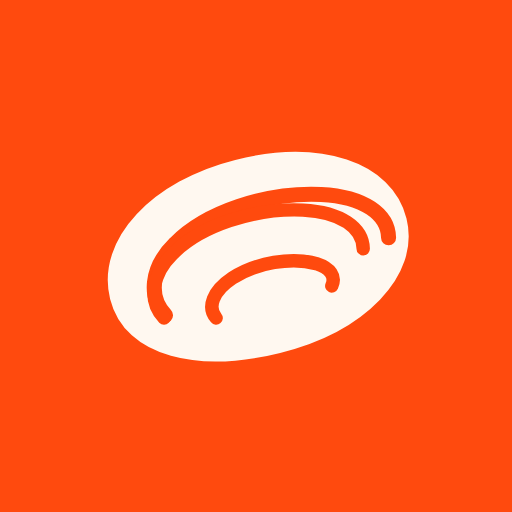
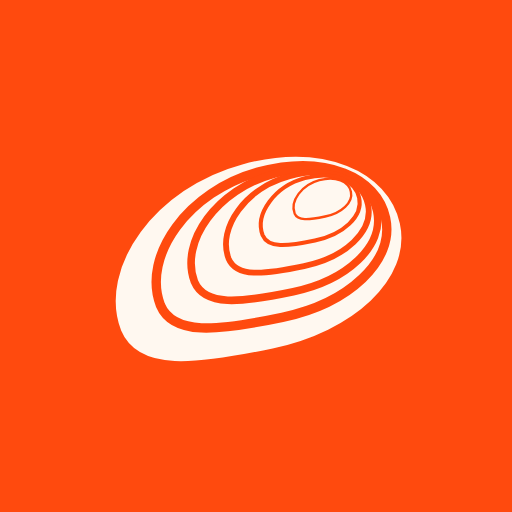
design: one oyster, and it is the wordmark's
The mark in the logo and the mark the application draws were two different
oysters, which the person looking at both every day noticed and said so. The
wordmark carries a proper shell — concentric growth rings running the whole way
round, converging where it grew from. The drawn one was a blob with two short
scratches near the top.

The wordmark's is the better drawing, so the drawn one now follows it.

**Why five rings work now and did not before.** The old construction scaled a
short *arc* about the hinge, so five of them bunched into the narrow end and
stopped reading as anything — recorded in that file as "the wordmark's spacing
is something this construction cannot do". That was the wrong conclusion from
a correct observation. Scaling the **outline** about a point gives exactly the
family a shell has: closed rings, tight where it grew from, spread across the
broad end.

The outline is pear-shaped now rather than an ellipse, soft point at the lower
left. That asymmetry is most of what makes the wordmark's shell look like a
shell and not a stone.

Detail follows size, and this time it was rendered at every size the
application actually uses before being committed: five rings at 64 and above,
three at 32, two at 20, one at 16 — where a second is already mud. Checked on
the rating badge over a light table, a white plate and a dark one.

The four application icons are re-exported from the same drawing, and
check:icons still finds the oyster centred in all of them.
[…]

Changed region(s): [[0.1875, 0.2812, 0.8125, 0.7188]]

diff --git a/src/components/brand/Oyster.tsx b/src/components/brand/Oyster.tsx
@@ -2,8 +2,12 @@
  * The oyster.
  *
  * It is the mark in the logo and it is what a recipe is rated in, so it had
- * better be the same oyster in both places. It used to be a 482 KB photograph
- * drawn at 24 pixels, tinted orange with
+ * better be the same oyster in both places. For a long time it was not, and
+ * the person looking at both every day said so: the wordmark carries a proper
+ * shell with concentric growth rings running all the way round it, and this
+ * drew a blob with two short scratches near the top. Two marks, one brand.
+ *
+ * It used to be a 482 KB photograph drawn at 24 pixels, tinted orange with
  *
  *     filter: invert(53%) sepia(85%) saturate(3029%) hue-rotate(346deg) …
  *
@@ -12,21 +16,51 @@
  * colour from `currentColor` like any piece of text, scales to any size, and
  * prints.
  *
- * The line count follows the size. It used to be two everywhere, because 24
- * pixels was the size that mattered when it was written — and then the
- * home-screen icon needed one at 512, where a two-ring shell reads as a bean.
+ * **The rings are the shell.** The previous drawing scaled a short *arc* about
+ * the hinge, which is why five of them bunched into the narrow end and stopped
+ * reading as anything — an attempt recorded here as "the wordmark's spacing is
+ * something this construction cannot do". That was the wrong conclusion from
+ * the right observation. Scaling the **outline** about a point produces exactly
+ * the family a shell has: closed rings, converging where the shell grew from
+ * and spreading across the broad end. Five of them at the sizes that can hold
+ * five.
  *
- * So one drawing with two levels of detail rather than two drawings: three
- * rings once there is room, two below that. The third is the outer ring grown
- * about the hinge — the narrow end the shell actually grows out from — so it
- * stays parallel to the rim instead of looking pasted on.
+ * The outline is pear-shaped rather than an ellipse — a soft point at the
+ * lower left, broad at the upper right — because that asymmetry is most of
+ * what makes the wordmark's shell look like a shell rather than a stone.
  *
- * Five were tried, aiming at the wordmark's own oyster, which is a raster with
- * about seven. They were worse: scaling about one hinge bunches them into the
- * narrow end, and the shell stops being a shell. The wordmark's rings are
- * spaced evenly across the whole shell, which this construction cannot do, and
- * three is where it stops being a simplification and starts being a mess.
+ * The detail follows the size, which is not decoration either: five rings at
+ * sixteen pixels is a smudge, and one ring at 512 is a bean. Rendered at every
+ * size the application actually uses before this was committed.
  */
+
+/**
+ * The shell, drawn once. Everything else here is this path at a smaller scale.
+ */
+const SHELL =
+    'M2.4 14.6 C1.9 10.4 6.8 6.3 12.6 6.2 C18.1 6.1 21.6 8.9 21.5 12.2 ' +
+    'C21.4 15.7 17.0 18.1 11.6 17.9 C6.2 17.7 2.8 17.2 2.4 14.6 Z';
+
+/**
+ * Where the rings converge — the umbo, the point a shell grows out from.
+ *
+ * On the upper right, which is where the wordmark's are. A real oyster's rings
+ * converge at the hinge, which is the pointed end; the wordmark does the
+ * opposite and looks better for it, and matching the brand beats matching the
+ * mollusc.
+ */
+const UMBO_X = 18.6;
+const UMBO_Y = 8.6;
+
+/** How much detail a given size can hold, and how heavy the line has to be. */
+function detail(size: number): { rings: number[]; strokeWidth: number } {
+    if (size >= 64) return { rings: [0.84, 0.68, 0.52, 0.36, 0.21], strokeWidth: 0.75 };
+    if (size >= 32) return { rings: [0.8, 0.6, 0.38], strokeWidth: 1 };
+    if (size >= 20) return { rings: [0.78, 0.52], strokeWidth: 1.3 };
+    // At sixteen pixels a single ring is the difference between a shell and an
+    // olive. Two is already mud.
+    return { rings: [0.74], strokeWidth: 1.6 };
+}
 
 export interface OysterProps {
     /**
@@ -44,13 +78,8 @@ export interface OysterProps {
      * This used to be hard-coded to `var(--color-bg)`, on the assumption that
      * an oyster always sits on the page. On the rating badge it does not: it
      * sits on a dark scrim over a photograph, filled with the scrim's own
-     * foreground — so the fill and the rings resolved to the same colour and
-     * the shell rendered as a featureless blob. In light mode that blob was
-     * cream and nobody looked twice; in dark mode it was a black jellybean in
-     * the corner of a photograph, which is how this was finally noticed.
-     *
-     * The default keeps every existing caller — the logo, the five shells on a
-     * recipe — exactly as it was.
+     * foreground — so fill and rings resolved to the same colour and the shell
+     * rendered as a featureless blob.
      */
     cutColor?: string;
 }
@@ -61,35 +90,10 @@ export default function Oyster({
     className,
     cutColor = 'var(--color-bg)',
 }: OysterProps) {
-    const shell =
-        'M2.8 12.4 C2.8 8.8 7 6.2 12.2 6.2 C17.6 6.2 21.4 8.6 21.4 12 ' +
-        'C21.4 15.4 17.4 17.9 12 17.9 C6.8 17.9 2.8 15.9 2.8 12.4 Z';
+    const { rings, strokeWidth } = detail(size);
 
-    const outer =
-        'M5.4 14.4 C4.7 13.2 5.2 11.6 6.9 10.6 C9 9.3 12.6 9 15.6 9.9 C17.9 10.6 19 11.9 18.7 13.2';
-    const inner =
-        'M8.6 15.2 C8.2 14.4 8.8 13.5 10.2 13 C11.9 12.4 14.2 12.6 15.6 13.4 C16.4 13.9 16.6 14.5 16.2 15';
-
-    // The hinge: the narrow end the growth rings spread out from. Scaling a
-    // ring about this point gives another ring of the same family.
-    const HINGE_X = 4.3;
-    const HINGE_Y = 15.6;
     const about = (factor: number) =>
-        `translate(${HINGE_X} ${HINGE_Y}) scale(${factor}) translate(${-HINGE_X} ${-HINGE_Y})`;
-
-    /**
-     * How much detail this size can hold. 28 is where it was drawn and looked
-     * at, not a formula: below it the third ring closes up against the second
-     * and the three become a smudge.
-     */
-    const rings: { d: string; transform?: string }[] =
-        size >= 28
-            ? [{ d: outer, transform: about(1.12) }, { d: outer }, { d: inner }]
-            : [{ d: outer }, { d: inner }];
-
-    // Thinner lines as the drawing grows: 1.5 at 24 pixels is what makes it
-    // readable there and what would make it a cartoon at 512.
-    const strokeWidth = size >= 96 ? 0.85 : size >= 28 ? 1.2 : 1.5;
+        `translate(${UMBO_X} ${UMBO_Y}) scale(${factor}) translate(${-UMBO_X} ${-UMBO_Y})`;
 
     return (
         <svg
@@ -101,26 +105,29 @@ export default function Oyster({
             aria-hidden="true"
             focusable="false"
         >
+            {/* The tilt is the wordmark's. Upright, the same drawing reads as a
+                dish rather than as something that was picked up. */}
             <g transform="rotate(-14 12 12)">
                 <path
-                    d={shell}
+                    d={SHELL}
                     fill={variant === 'solid' ? 'currentColor' : 'none'}
                     stroke="currentColor"
                     strokeWidth={strokeWidth}
                     strokeLinejoin="round"
                 />
-                {rings.map((ring, index) => (
+
+                {rings.map((factor) => (
                     <path
-                        key={`${index}-${ring.transform ?? ''}`}
-                        d={ring.d}
-                        transform={ring.transform}
+                        key={factor}
+                        d={SHELL}
+                        transform={about(factor)}
                         fill="none"
                         // On a filled shell the rings are cut out of the fill,
-                        // so they take the colour of whatever is behind the
-                        // shell — exactly how the logo reads, white on orange.
+                        // so they take the colour of whatever is behind it —
+                        // exactly how the logo reads, white on orange.
                         stroke={variant === 'solid' ? cutColor : 'currentColor'}
                         strokeWidth={strokeWidth}
-                        strokeLinecap="round"
+                        strokeLinejoin="round"
                     />
                 ))}
             </g>
